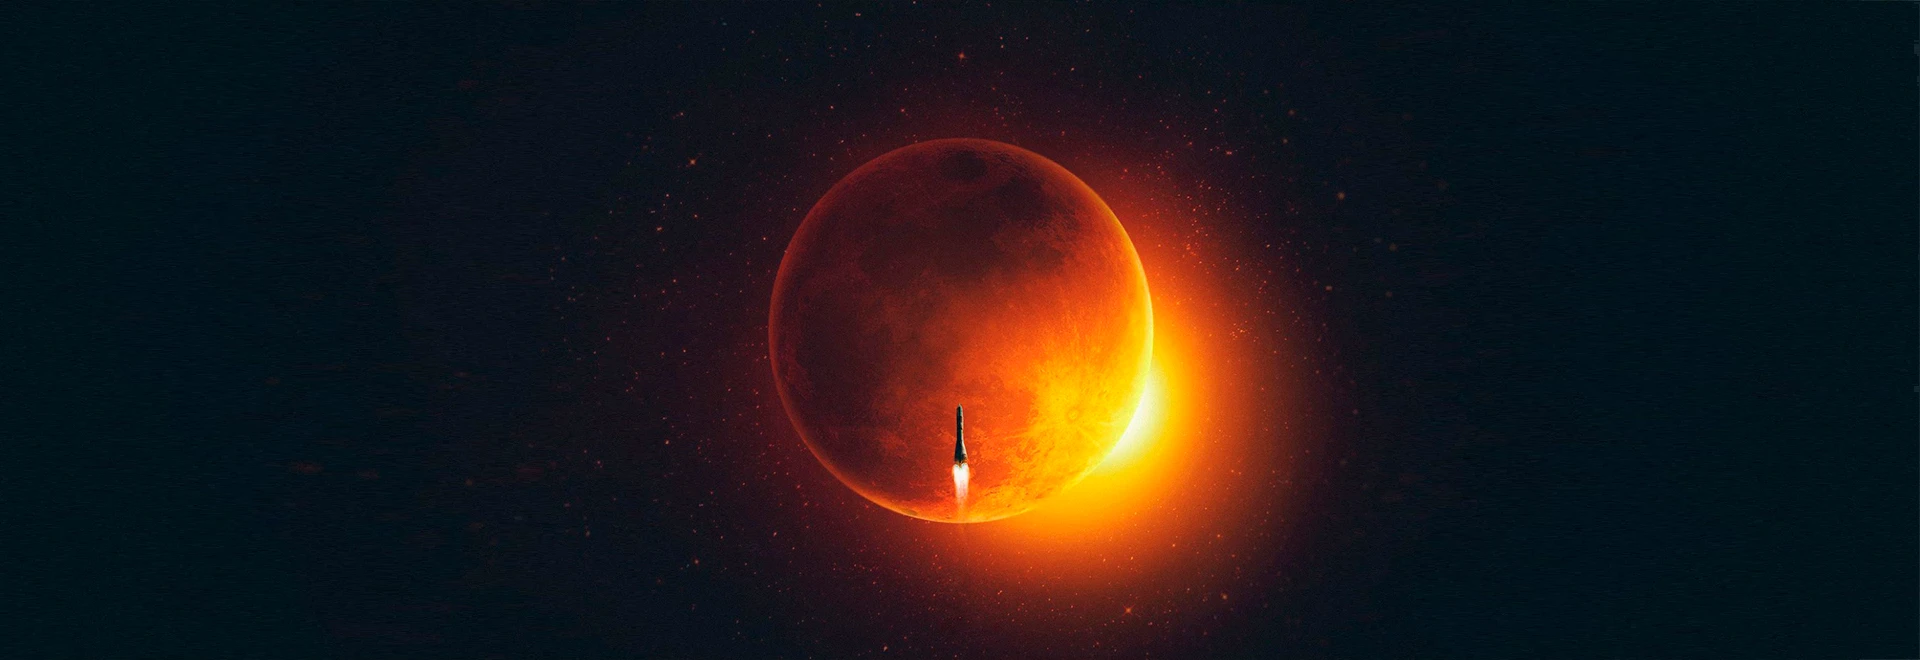
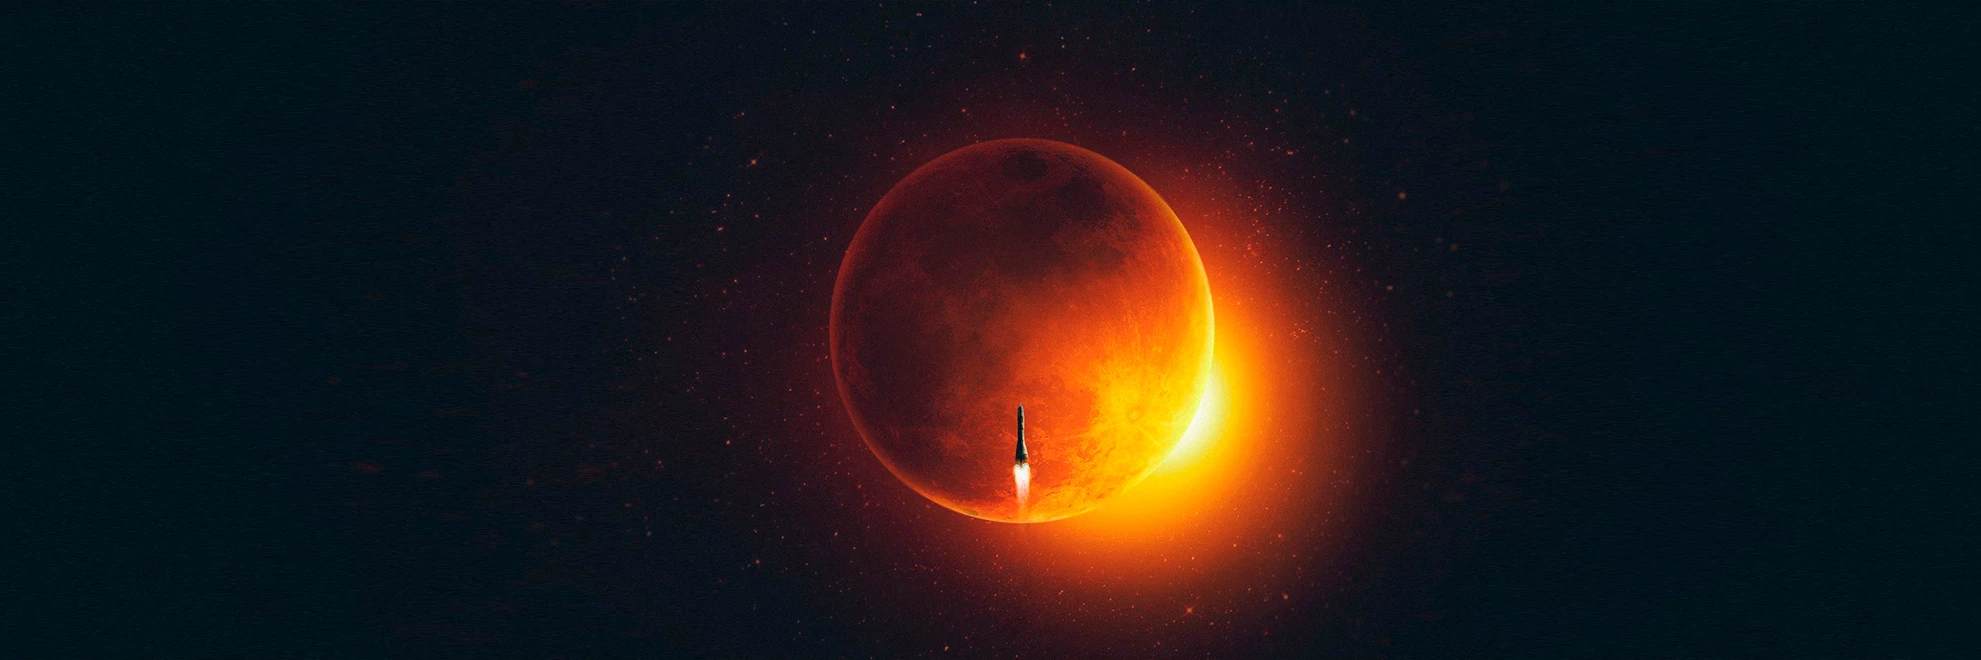
feat: button ready

Changed region(s): [[0.375, 0.2121, 0.6875, 0.9091], [0.625, 0.2121, 0.6562, 0.2424], [0.5938, 0.9091, 0.625, 0.9394]]

diff --git a/src/styles/attachments/utilites.scss b/src/styles/attachments/utilites.scss
@@ -17,6 +17,7 @@
 
 .corner-box {
   position: relative;
+
   &:after {
     content: '';
     position: absolute;
@@ -51,22 +52,51 @@
     transition-timing-function: ease;
   }
 
-
   &--large:after {
     @include cornerSize(7px);
   }
 
   &--large:hover:after {
-    @include cornerSize(14px);
+    @include cornerSize(21px);
     filter: var(--light-1);
   }
 
   &--small:after {
-    @include cornerSize(5px);
+    filter: var(--light-2);
+    @include cornerSize(5px, false);
   }
 
   &--small:hover:after {
-    @include cornerSize(10px);
+    filter: var(--light-3);
+    @include cornerSize(100%, false);
   }
 }
 
+.button {
+  padding: 0.625rem 1.5rem;
+  font-size: 0.875rem;
+  background-color: var(--blue-950-rgba-5);
+  border: 1px solid var(--gray-990);
+  border-image: linear-gradient(
+    190deg,
+    var(--blue-600) 30%,
+    var(--blue-800) 40%,
+    var(--blue-850) 55%,
+    var(--blue-550) 85%) 2;
+
+  transition-property: background-color, filter, color, text-shadow;
+  transition-duration: var(--transition-duration-normal);
+  transition-timing-function: ease;
+
+  &:hover {
+    background-color: var(--blue-950-rgba-10);
+    filter: var(--light-3);
+    //color: rgba(0, 255, 255, 1);
+    text-shadow: 0 0 7px rgba(0, 255, 255, 1);
+    //border-color: var(--blue-550);
+    //border-image: linear-gradient(
+    //                190deg,
+    //                var(--blue-550) 100%,
+    //                var(--blue-550) 100%) 2;
+  }
+}

diff --git a/src/styles/attachments/_mixins.scss b/src/styles/attachments/_mixins.scss
@@ -26,14 +26,27 @@
   min-height: $value;
 }
 
-@mixin cornerSize($value) {
-  background-size:
-    1px $value, // top left |
-    $value 1px, // top left --
-    1px $value, // bottom left |
-    $value 1px, // bottom bottom
-    1px $value, // bottom right
-    $value 1px, // top right --
-    1px $value, // top right |
-    $value 1px; // bottom left --
+@mixin cornerSize($value, $isFull: true) {
+  @if $isFull == true {
+    background-size:
+      1px $value, // top left |
+      $value 1px, // top left --
+      1px $value, // bottom left |
+      $value 1px, // bottom right --
+      1px $value, // bottom right |
+      $value 1px, // top right --
+      1px $value, // top right |
+      $value 1px; // bottom left --
+  } @else {
+      background-size:
+        0 0, // top left |
+        0 0, // top left --
+        1px $value, // bottom left |
+        0 0, // bottom right --
+        0 0, // bottom right |
+        $value 1px, // top right --
+        1px $value, // top right |
+        $value 1px; // bottom left --
+  }
+
 }

diff --git a/src/styles/attachments/variables.scss b/src/styles/attachments/variables.scss
@@ -2,14 +2,20 @@
   // colors
   --white: #fff;
   --gray-100: #b1b1b1;
-  --gray-150-rgba: rgba(152, 147, 147, .21); // #989393
+  --gray-150-rgba: rgba(152, 147, 147, .21);
+  --gray-990: #0e0d16;
   --blue-350: #398df5;
   --blue-550: #23599c;
+  --blue-600: #263e66;
+  --blue-800: #09213d;
+  --blue-850: #111f2d;
   --blue-900: #0b141d;
+  --blue-950-rgba-5: rgba(22, 21, 29, .5);
+  --blue-950-rgba-10: rgba(22, 21, 29, 1);
   --orange-600: #ff3f04;
   --amber-600: #ee8521; // for logo
   --amber-700: #d05217; // for logo
-  --orange-950-rgba: rgba(21, 10, 1, .21); // #150a01
+  --orange-950-rgba: rgba(21, 10, 1, .21);
   --transparent: transparent;
 
   // fonts
@@ -31,4 +37,9 @@
 
   // filter
   --light-1: drop-shadow(0 0 3px rgba(255, 255, 255, 1));
+  --light-2:
+          drop-shadow(0 0 1px rgba(255, 255, 255, 1))
+          drop-shadow(0 0 3px rgba(255, 255, 255, 0.7))
+          drop-shadow(0 0 5px rgba(255, 255, 255, 0.5));
+  --light-3: drop-shadow(0 0 1px rgba(0, 255, 255, 1));
 }

diff --git a/src/styles/attachments/components.scss b/src/styles/attachments/components.scss
@@ -102,12 +102,11 @@
     left: 0;
     top: 0;
     background-repeat: no-repeat;
-
   }
 
   &:before {
     background-image:
-            url(../../../public/assets/images/hero/background-2.webp);
+            url(../../../public/assets/images/hero/background.webp);
     background-position: calc(50% - 57px), center;
     z-index: -2;
   }
@@ -131,6 +130,7 @@
   }
 
   &-content {
+    margin-bottom: 5.625rem;
     color: var(--transparent);
     background-image: linear-gradient(
       -90deg,
@@ -149,6 +149,7 @@
       transparent 50%, white 50.5%
     );
     mask-repeat: no-repeat;
+    mask-composite: exclude;
   }
 }
 

diff --git a/src/components/elements/Button.tsx b/src/components/elements/Button.tsx
@@ -1,0 +1,22 @@
+import { ButtonHTMLAttributes, FC, ReactElement } from 'react'
+
+import clsx from 'clsx'
+
+import { IPropsWithChildren } from '@interfaces/common.types'
+
+type TProps = IPropsWithChildren & ButtonHTMLAttributes<HTMLButtonElement>
+
+const Button: FC<TProps> = ({ children, className, ...rest }): ReactElement => (
+  <button
+    type='button'
+    className={ clsx(
+      'button corner-box corner-box--small',
+      className
+    ) }
+    { ...rest }
+  >
+    { children }
+  </button>
+)
+
+export default Button

diff --git a/src/components/sections/Hero.tsx b/src/components/sections/Hero.tsx
@@ -4,6 +4,7 @@ import {
 
 import { changePlanetMaskParams } from '@utils/elements.utils'
 
+import Button from '@components/elements/Button'
 import Container from '@components/layout/Container'
 
 const Hero: FC = (): ReactElement => {
@@ -58,6 +59,9 @@ const Hero: FC = (): ReactElement => {
             на красную планету
           </h4>
         </div>
+        <Button>
+          Начать путешествие
+        </Button>
       </Container>
     </section>
   )
